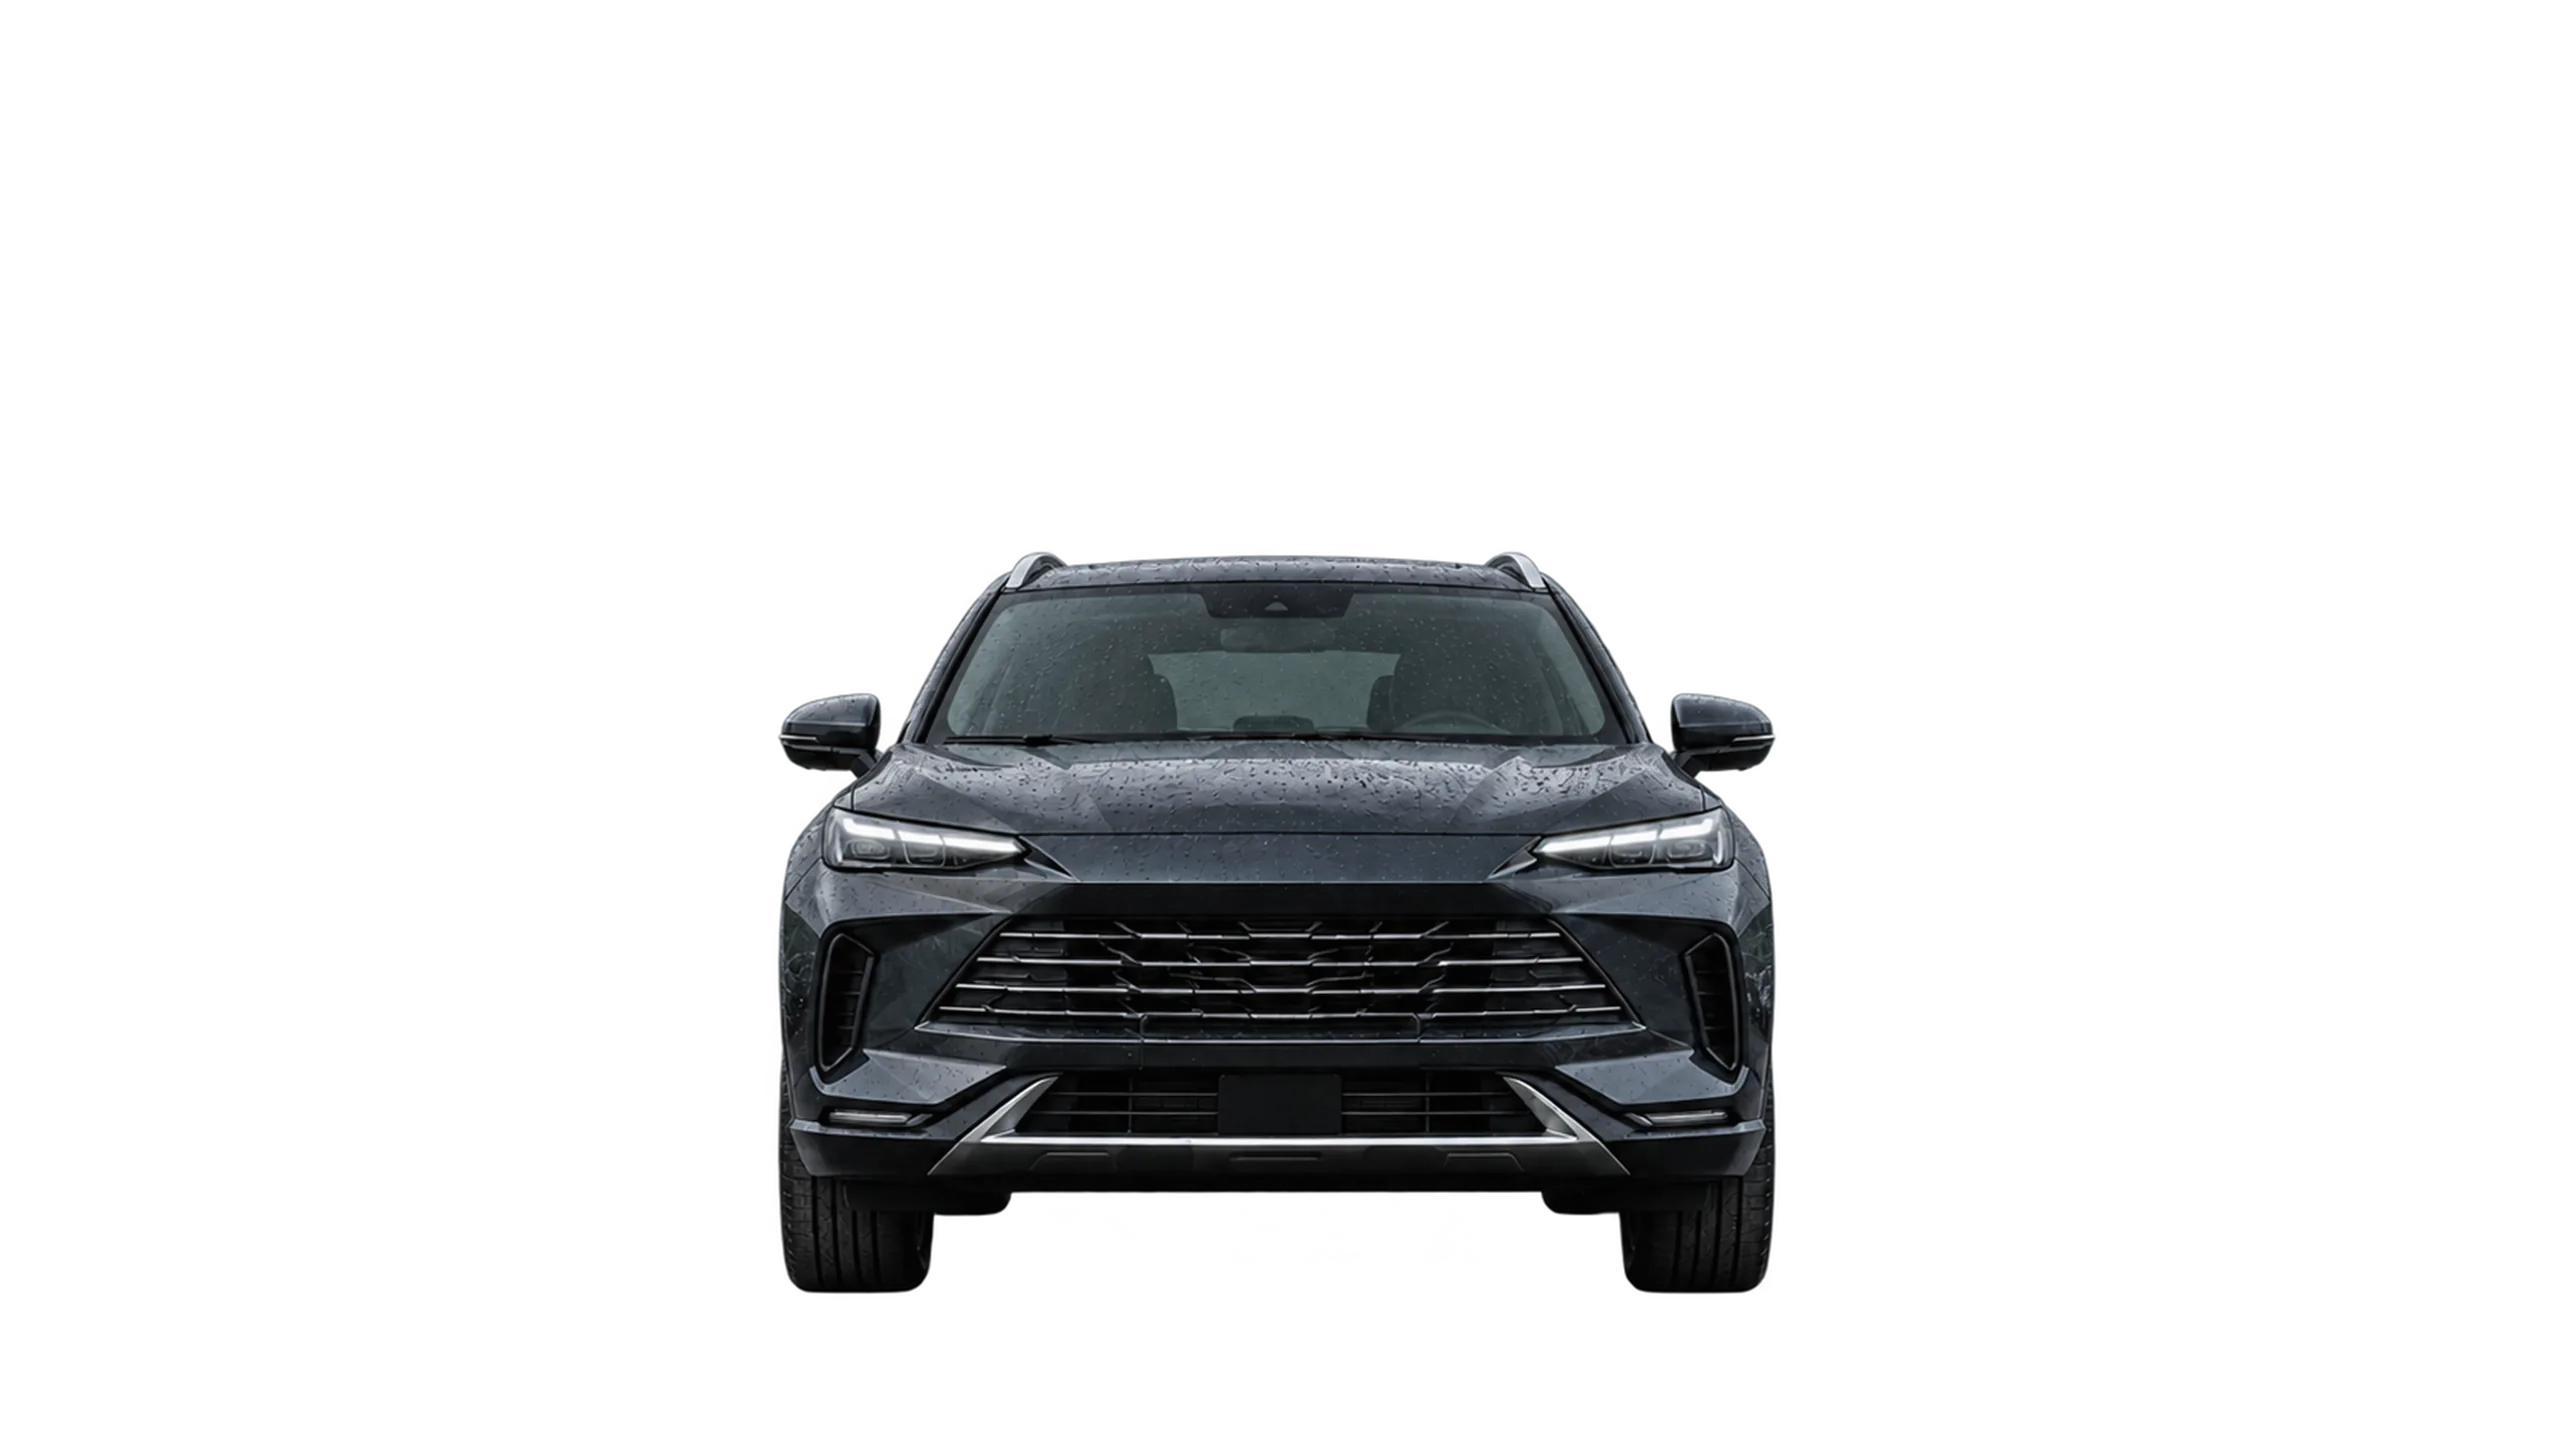
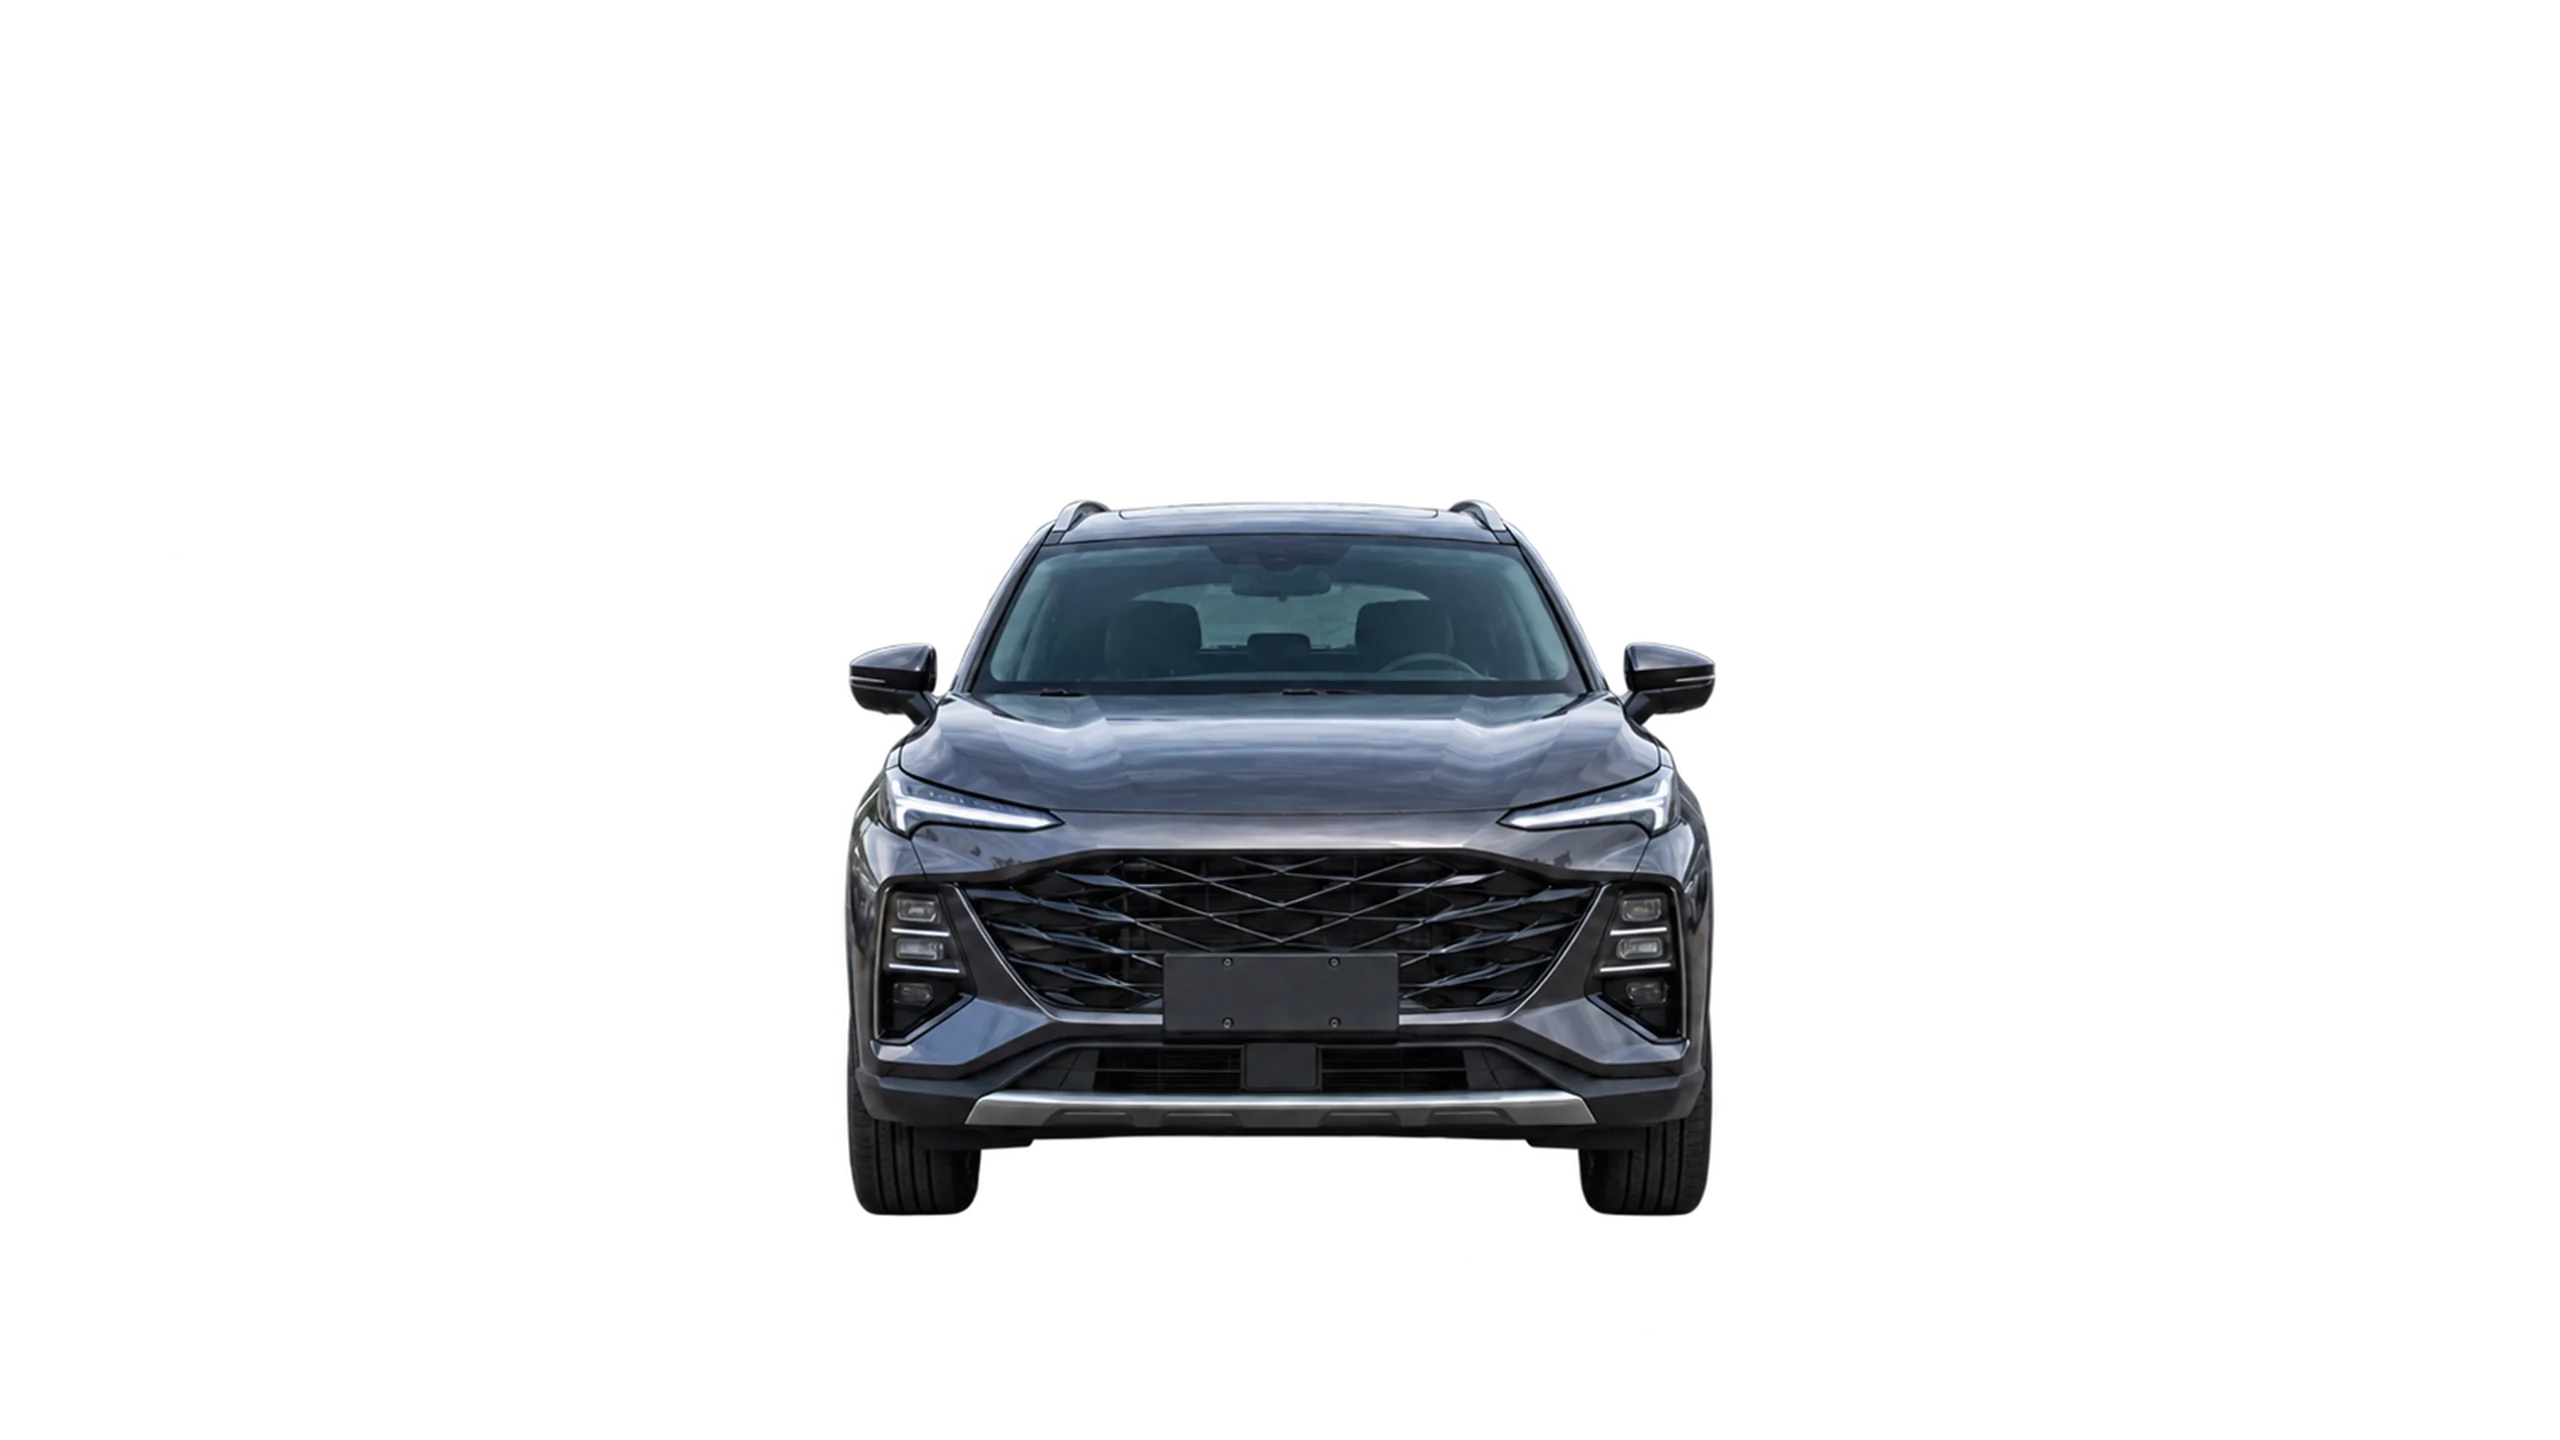
Новые светлые фото, статусы, свои иконки

Changed region(s): [[0.2812, 0.3438, 0.7188, 0.9062]]

diff --git a/home/index.html b/home/index.html
@@ -9,8 +9,8 @@
   <link rel="preconnect" href="https://fonts.googleapis.com">
   <link rel="preconnect" href="https://fonts.gstatic.com" crossorigin>
   <link href="https://fonts.googleapis.com/css2?family=Inter+Tight:wght@400;500;600;800;900&amp;display=swap" rel="stylesheet">
-  <link rel="stylesheet" href="assets/css/main.css?v=45">
-  <script src="assets/js/main.js?v=3" defer></script>
+  <link rel="stylesheet" href="assets/css/main.css?v=47">
+  <script src="assets/js/main.js?v=4" defer></script>
 </head>
 <body>
   <a class="skip-link" href="#main">К содержанию</a>
@@ -45,12 +45,12 @@
       <div class="hero-stage">
         <!-- Фото сгенерированы по docs/hero-photo-prompts.md (10.11); оригиналы hero.jpg / hero-m.jpg рядом -->
         <picture>
-          <source media="(max-width: 820px)" srcset="assets/img/hero-m-web.jpg?v=2" width="1080" height="2280">
-          <img class="hero-photo" src="assets/img/hero-web.jpg?v=2" alt="" width="2560" height="1440" fetchpriority="high">
+          <source media="(max-width: 820px)" srcset="assets/img/hero-m-web.jpg?v=3" width="1080" height="2280">
+          <img class="hero-photo" src="assets/img/hero-web.jpg?v=3" alt="" width="2560" height="1440" fetchpriority="high">
         </picture>
         <h1>Растаможим <br class="br-m">авто <span class="h1-line"><em class="accent">из Китая</em> <br class="br-m">в&nbsp;Уссурийске</span></h1>
         <!-- Передний слой: вырезанный объект с того же фото (PNG/WebP с прозрачностью) перекрывает заголовок. Пока файла нет — слой скрыт. -->
-        <img class="hero-front" src="assets/img/hero-front.webp" alt="" aria-hidden="true" onerror="this.remove()">
+        <img class="hero-front" src="assets/img/hero-front.webp?v=3" alt="" aria-hidden="true" onerror="this.remove()">
         <div class="hero-bottom">
           <div class="hero-strip">
             <div class="hs-cell hs-cell--price">
@@ -88,7 +88,11 @@
         </div>
         <div class="about-grid">
           <article class="ab-card ab-card--text reveal">
-            <span class="ab-icon" aria-hidden="true"><svg viewBox="0 0 32 32"><rect x="7" y="5" width="18" height="23" rx="2.5"/><path d="M12 5V3.5h8V5M11.5 17l3 3 6-6"/></svg></span>
+            <div class="ab-notes" aria-label="Пример статусов в мессенджере">
+              <div class="ab-note"><i><svg viewBox="0 0 16 16"><path d="M3.5 8.5l3 3 6-6.5"/></svg></i><b>Машина на СВХ</b><time>10:12</time></div>
+              <div class="ab-note"><i><svg viewBox="0 0 16 16"><path d="M3.5 8.5l3 3 6-6.5"/></svg></i><b>Декларация выпущена</b><time>13:46</time></div>
+              <div class="ab-note ab-note--accent"><i><svg viewBox="0 0 16 16"><path d="M3.5 8.5l3 3 6-6.5"/></svg></i><b>Машина готова к выдаче</b><time>11:05</time></div>
+            </div>
             <div>
               <h3>Посредникам, которые везут под&nbsp;заказ</h3>
               <p>Вы взяли предоплату и назвали покупателю срок и цену. Проверим машину до покупки, назовём примерные платежи и будем присылать статус на каждом этапе — вам не придётся объяснять покупателю задержки.</p>
@@ -96,13 +100,13 @@
             </div>
           </article>
           <article class="ab-card ab-card--photo reveal">
-            <img src="assets/img/hero-web.jpg?v=2" alt="" loading="lazy">
-            <span class="ab-icon ab-icon--white" aria-hidden="true"><svg viewBox="0 0 32 32"><path d="M4 16.5V5.5A1.5 1.5 0 0 1 5.5 4h11l11 11-12 12z"/><circle cx="11" cy="11" r="2"/></svg></span>
+            <img src="assets/img/aud-2-web.jpg" alt="Дилерская площадка с рядами новых машин" loading="lazy">
+            <span class="ab-icon ab-icon--white" aria-hidden="true"><svg viewBox="0 0 32 32"><path d="M4 21.5h17.5M5.5 21.5v4.5h3v-2h9v2h3v-4.5M6.5 21.5l2-6.5h11l2 6.5M8.5 18.5h2.5M16.5 18.5h2.5"/><circle cx="24.5" cy="9" r="5.5"/><path d="M23.3 12.2V5.8h2a1.8 1.8 0 0 1 0 3.6h-3M22.3 10.9h3"/></svg></span>
             <div class="ab-glass"><h3>Дилерам и перекупщикам</h3><p>Маржа считается от итоговой стоимости машины. Наша часть в ней известна заранее: 55 000 ₽ за оформление.</p></div>
           </article>
           <article class="ab-card ab-card--inset reveal">
-            <div class="ab-inset"><img src="assets/img/svh-web.jpg" alt="" loading="lazy"></div>
-            <span class="ab-icon ab-icon--white" aria-hidden="true"><svg viewBox="0 0 32 32"><rect x="4" y="10" width="24" height="16" rx="2.5"/><path d="M12 10V7a1.5 1.5 0 0 1 1.5-1.5h5A1.5 1.5 0 0 1 20 7v3M4 17h24"/></svg></span>
+            <div class="ab-inset"><img src="assets/img/aud-3-web.jpg" alt="Корпоративный парк: пикапы и фургоны" loading="lazy"></div>
+            <span class="ab-icon ab-icon--white" aria-hidden="true"><svg viewBox="0 0 32 32"><path d="M4.5 22.5H3v-6l4.5-1.5 2.6-5.5H17v7h12v6h-2.5M11.5 22.5h9"/><path d="M11 10.8 9.4 15H15v-4.2z"/><circle cx="9" cy="23" r="2.6"/><circle cx="23" cy="23" r="2.6"/></svg></span>
             <h3>Корпоративным клиентам</h3>
             <p>Такси, логистика, перевозки: обновляете парк легковыми, пикапами или авто до 3,5 т — оформляем по договору, документы по ЭДО.</p>
           </article>

diff --git a/home/assets/css/main.css b/home/assets/css/main.css
@@ -398,3 +398,28 @@ a.as-item:hover strong { color: var(--purple); }
 @media (max-width: 1100px) { :root { --side: 32px; } }
 @media (max-width: 640px) { :root { --side: 12px; } }
 @media (max-width: 1000px) { .about-head h2 { grid-column: 1 / -1; } }
+
+/* Карточка «Посредникам»: стопка статусов как в мессенджере */
+.ab-notes { position: relative; display: grid; gap: 10px; padding: 6px 0 24px; }
+.ab-note { display: grid; grid-template-columns: 28px 1fr auto; gap: 12px; align-items: center; width: min(100%, 340px); padding: 12px 14px; border-radius: 14px; background: #fff; box-shadow: 0 10px 24px rgba(16,16,20,.06); font-size: .92rem; transition: transform .35s ease; }
+.ab-note:nth-child(2) { margin-left: 22px; }
+.ab-note:nth-child(3) { margin-left: 44px; }
+.ab-note i { display: grid; place-items: center; width: 28px; height: 28px; border-radius: 50%; background: rgba(107,98,213,.12); color: var(--purple); }
+.ab-note i svg { width: 14px; height: 14px; fill: none; stroke: currentColor; stroke-width: 2.4; stroke-linecap: round; stroke-linejoin: round; }
+.ab-note b { font-weight: 600; }
+.ab-note time { color: #8d8b93; font-size: .78rem; }
+.ab-note--accent { color: #fff; background: var(--purple); box-shadow: 0 14px 30px rgba(107,98,213,.35); }
+.ab-note--accent i { color: #fff; background: rgba(255,255,255,.2); }
+.ab-note--accent time { color: rgba(255,255,255,.75); }
+.ab-card--text:hover .ab-note:nth-child(1) { transform: translateX(6px); }
+.ab-card--text:hover .ab-note:nth-child(2) { transform: translateX(-6px); }
+.ab-card--text:hover .ab-note:nth-child(3) { transform: translateX(-12px); }
+@media (max-width: 640px) {
+  .ab-note:nth-child(2) { margin-left: 14px; }
+  .ab-note:nth-child(3) { margin-left: 28px; }
+  .ab-note { width: calc(100% - 28px); }
+}
+
+/* Первый экран: светлые фото (v3) — мягкое затемнение только сверху (шапка, заголовок) и снизу (полоска) */
+.hero-stage::before { content: ""; position: absolute; z-index: -1; inset: 0; pointer-events: none;
+  background: linear-gradient(180deg, rgba(10,10,14,.62) 0%, rgba(10,10,14,.38) 26%, rgba(10,10,14,0) 46%, rgba(10,10,14,0) 62%, rgba(10,10,14,.55) 100%); }

diff --git a/home/assets/js/main.js b/home/assets/js/main.js
@@ -70,14 +70,14 @@ if (reducedMotion || !('IntersectionObserver' in window)) {
 }
 
 // Первый экран: нижняя строка заголовка заходит за крышу машины на вырезанном слое (~30 % высоты строки).
-// Крыша на фото — 38,4 % высоты кадра 2560×1440. Если заголовок выше крыши — опускаем заголовок,
+// Крыша на фото — 34,7 % высоты кадра 2560×1440. Если заголовок выше крыши — опускаем заголовок,
 // если ниже — сдвигаем/увеличиваем оба слоя картинки одинаково.
 (() => {
   const stage = document.querySelector('.hero-stage');
   const title = stage?.querySelector('h1');
   const layers = stage ? [...stage.querySelectorAll('.hero-photo, .hero-front')] : [];
   if (!stage || !title) return;
-  const ROOF = 0.384;
+  const ROOF = 0.347;
   const reset = () => {
     title.style.marginTop = '';
     layers.forEach((el) => { el.style.objectPosition = ''; el.style.transform = ''; el.style.transformOrigin = ''; });
